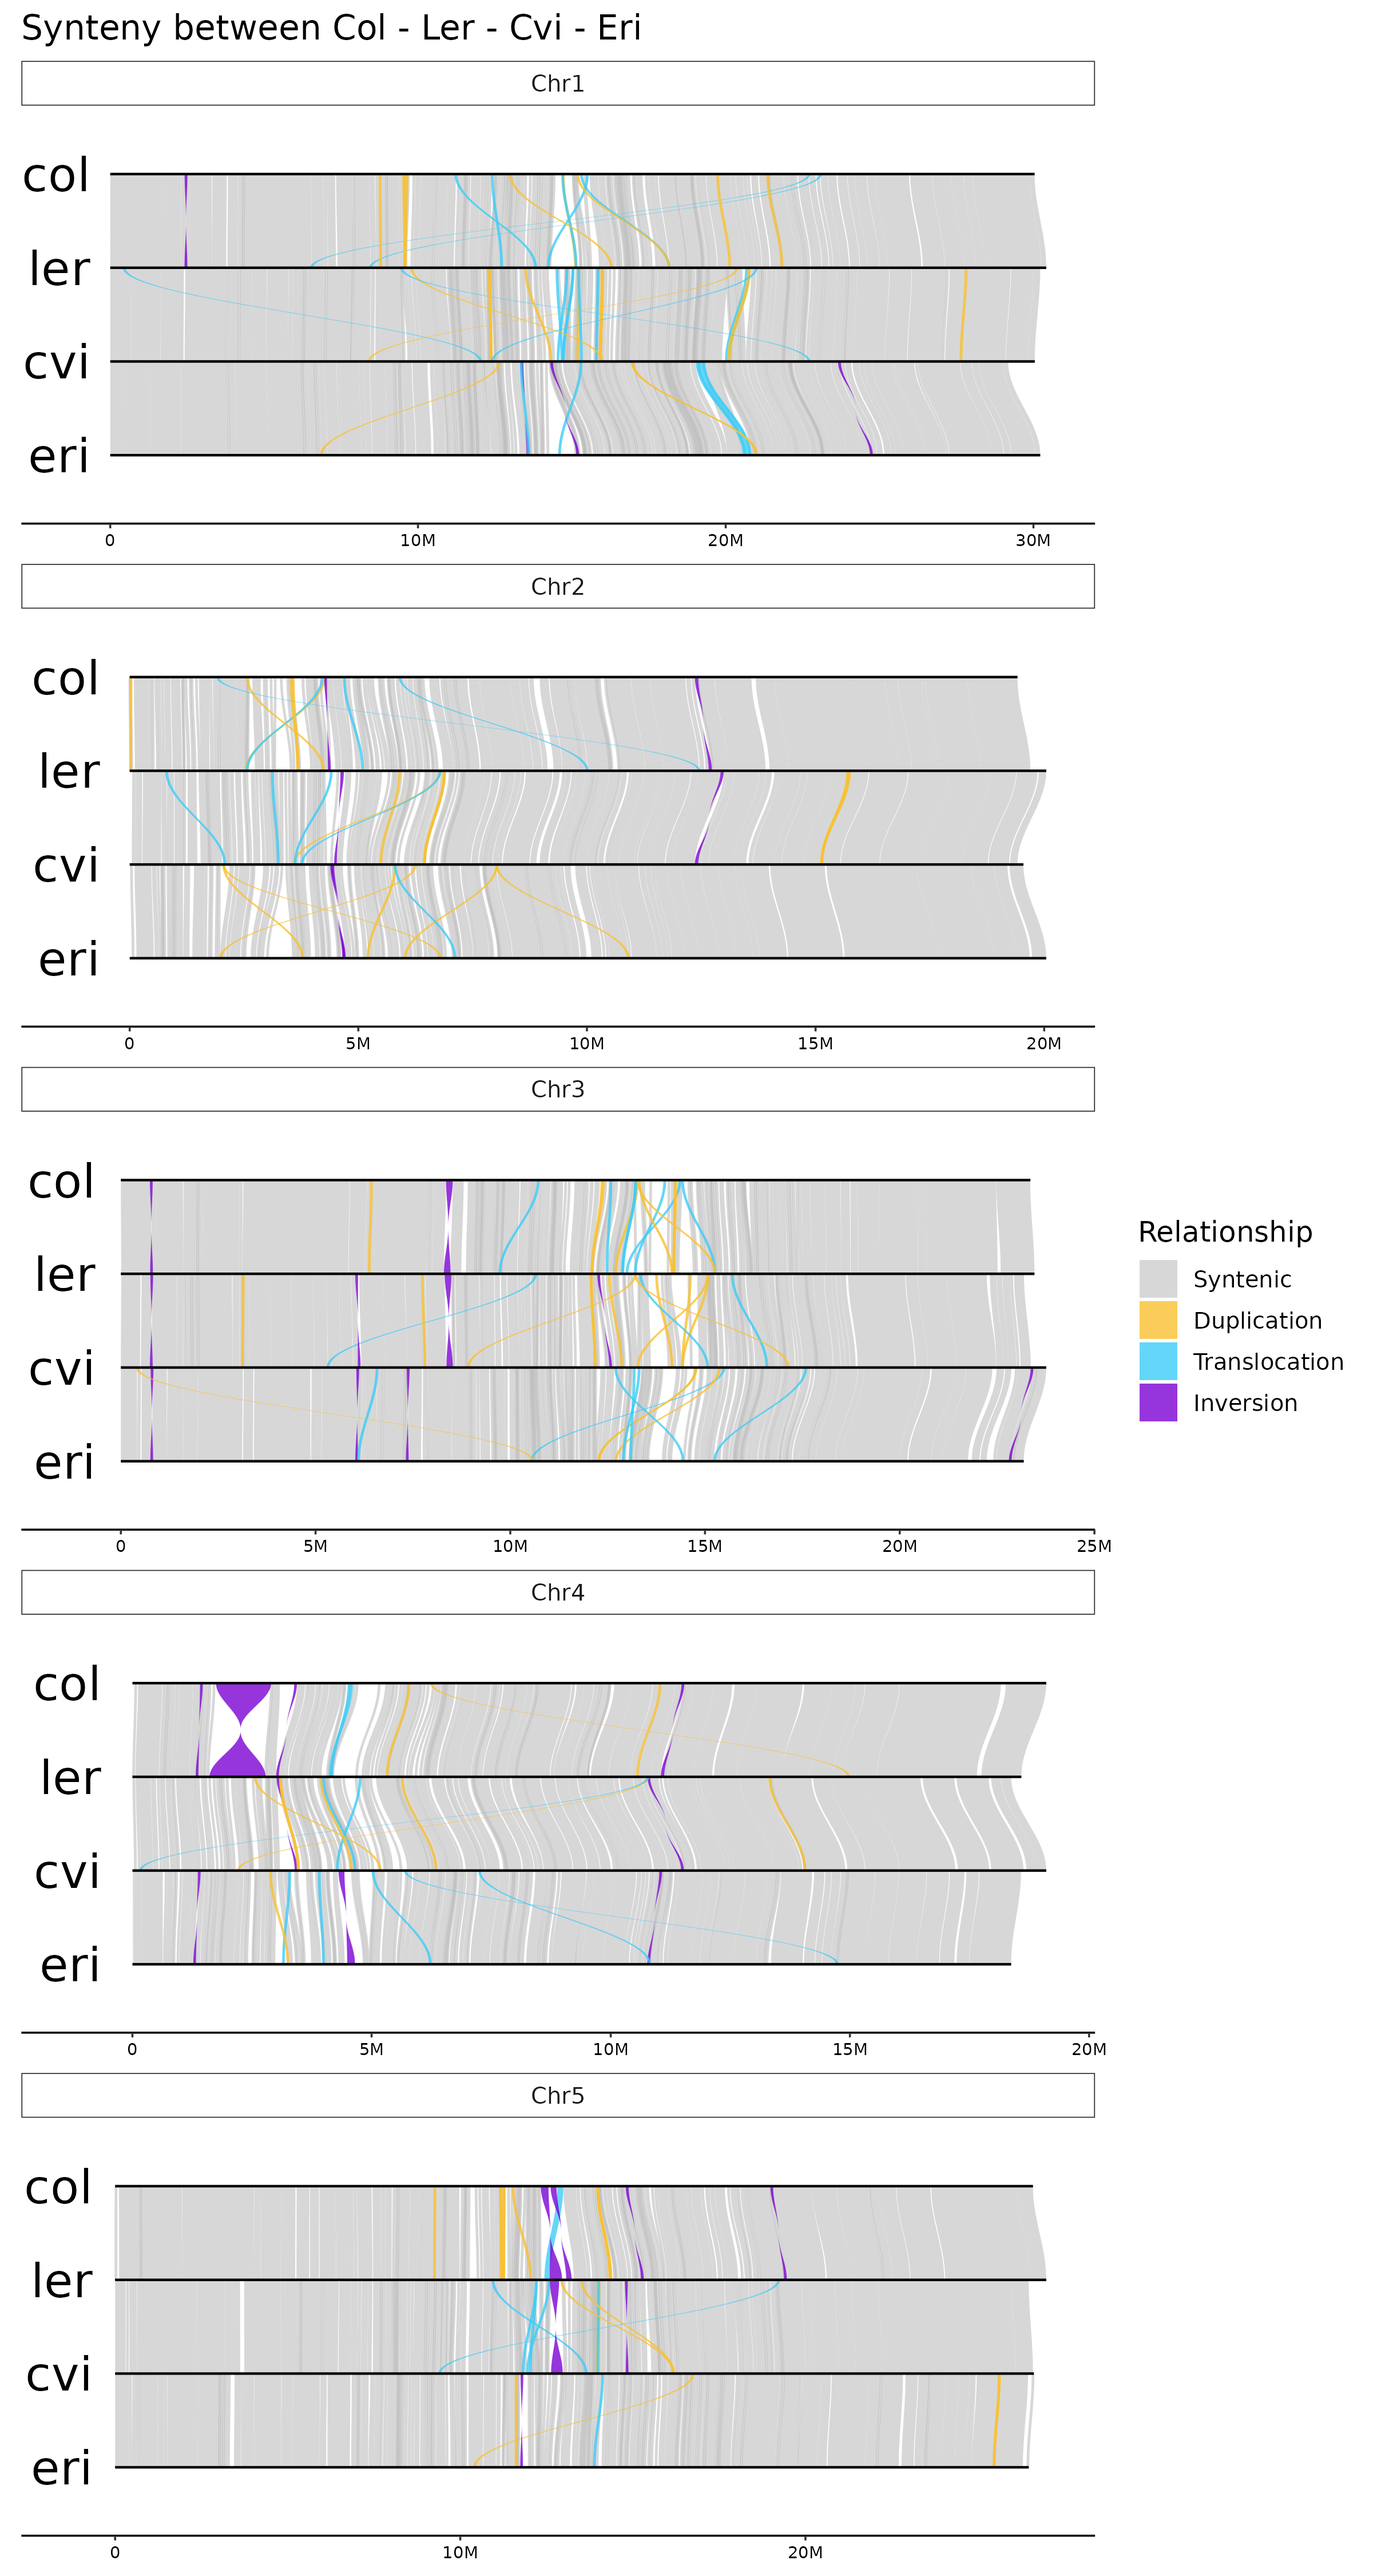
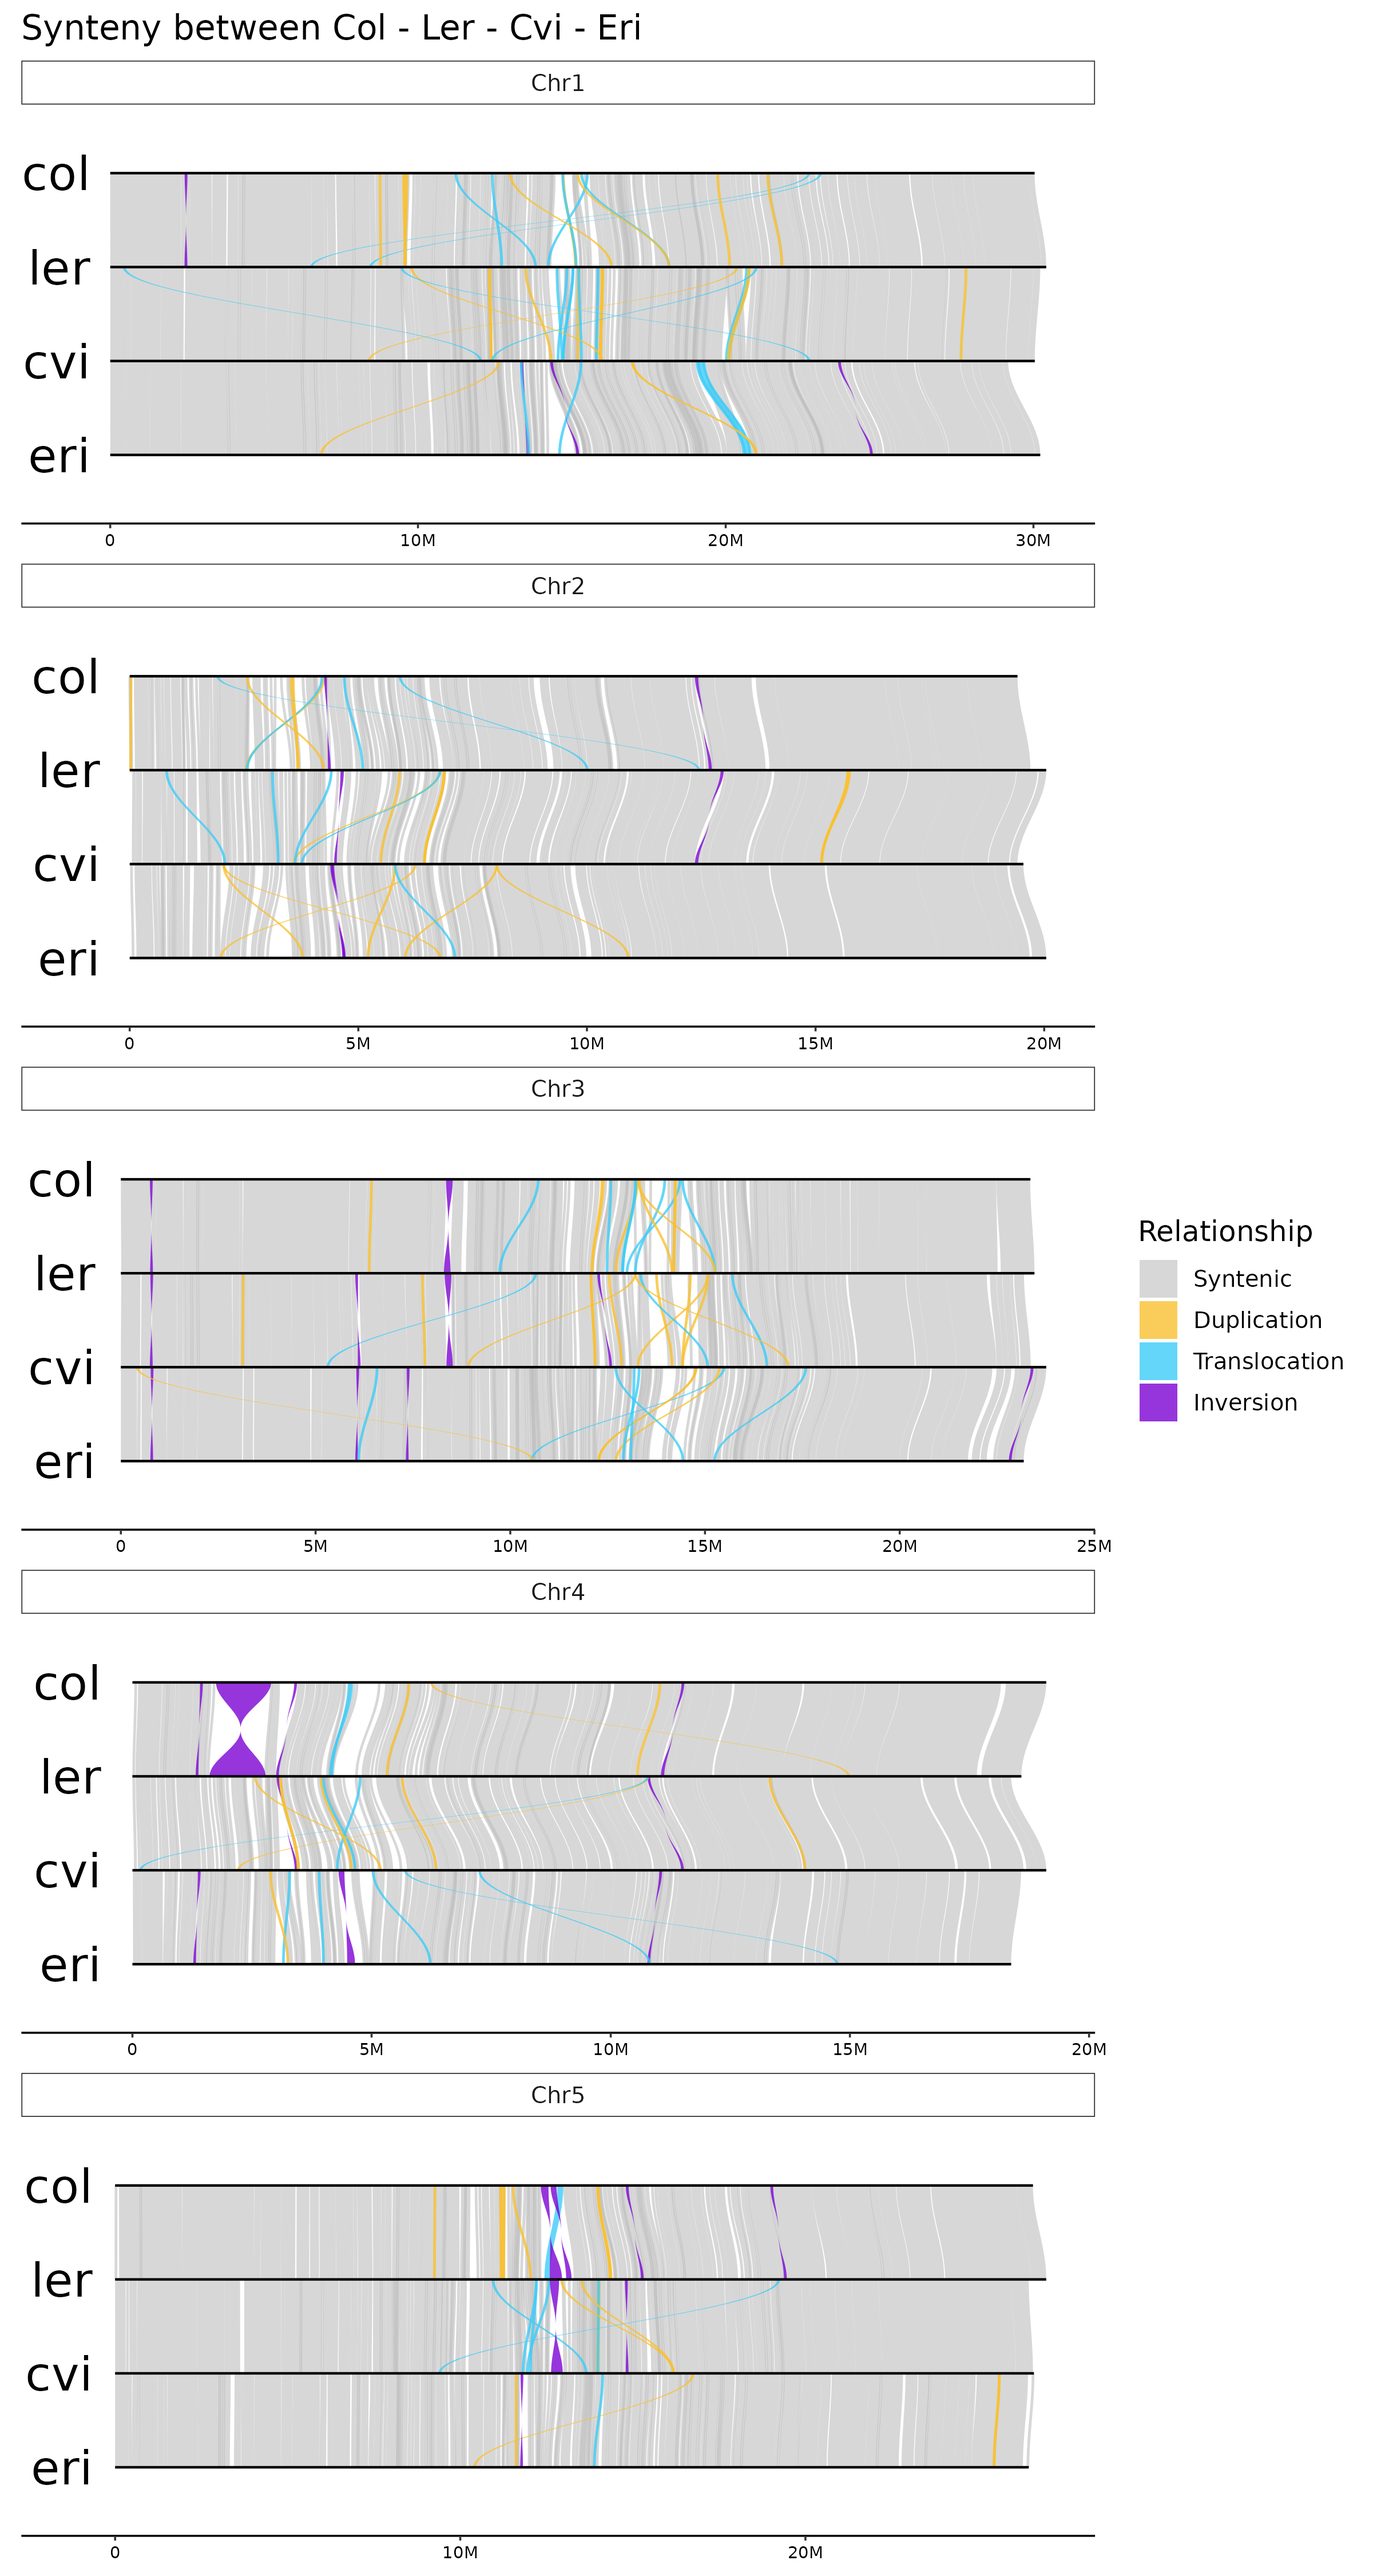
update chunk 20

Changed region(s): [[0.3438, 0.0622, 0.4688, 0.0933]]

diff --git a/README.md b/README.md
@@ -452,7 +452,7 @@ dat_tmp <- lapply(chromosomes,
                   \(chrom) parse_syri(file_list, order = syri_order, chroms = chrom))
 
 # Bind sequences
-dat$seqs <- lapply(1:length(dat), \(l) pluck(dat_tmp, l, "seqs")) %>%
+dat$seqs <- lapply(1:length(chromosomes), \(l) pluck(dat_tmp, l, "seqs")) %>%
   bind_rows()
 # Create y coordinates for sequences
 seq_pos <- left_join(dat$seqs, syri_order %>%
@@ -463,10 +463,10 @@ seq_pos <- left_join(dat$seqs, syri_order %>%
 
 ``` r
 # Bind links
-dat$links <- lapply(1:length(dat), \(l) pluck(dat_tmp, l, "links")) %>%
+dat$links <- lapply(1:length(chromosomes), \(l) pluck(dat_tmp, l, "links")) %>%
   bind_rows()
 # Bind polygons
-dat$polys <- lapply(1:length(dat), \(l) pluck(dat_tmp, l, "polys")) %>%
+dat$polys <- lapply(1:length(chromosomes), \(l) pluck(dat_tmp, l, "polys")) %>%
   bind_rows()
 # Add seq_id column to polygons, only keep polygons that connect the same chromosome
 dat$polys <- dat$polys %>%

diff --git a/parse.md b/parse.md
@@ -452,7 +452,7 @@ dat_tmp <- lapply(chromosomes,
                   \(chrom) parse_syri(file_list, order = syri_order, chroms = chrom))
 
 # Bind sequences
-dat$seqs <- lapply(1:length(dat), \(l) pluck(dat_tmp, l, "seqs")) %>%
+dat$seqs <- lapply(1:length(chromosomes), \(l) pluck(dat_tmp, l, "seqs")) %>%
   bind_rows()
 # Create y coordinates for sequences
 seq_pos <- left_join(dat$seqs, syri_order %>%
@@ -463,10 +463,10 @@ seq_pos <- left_join(dat$seqs, syri_order %>%
 
 ``` r
 # Bind links
-dat$links <- lapply(1:length(dat), \(l) pluck(dat_tmp, l, "links")) %>%
+dat$links <- lapply(1:length(chromosomes), \(l) pluck(dat_tmp, l, "links")) %>%
   bind_rows()
 # Bind polygons
-dat$polys <- lapply(1:length(dat), \(l) pluck(dat_tmp, l, "polys")) %>%
+dat$polys <- lapply(1:length(chromosomes), \(l) pluck(dat_tmp, l, "polys")) %>%
   bind_rows()
 # Add seq_id column to polygons, only keep polygons that connect the same chromosome
 dat$polys <- dat$polys %>%
